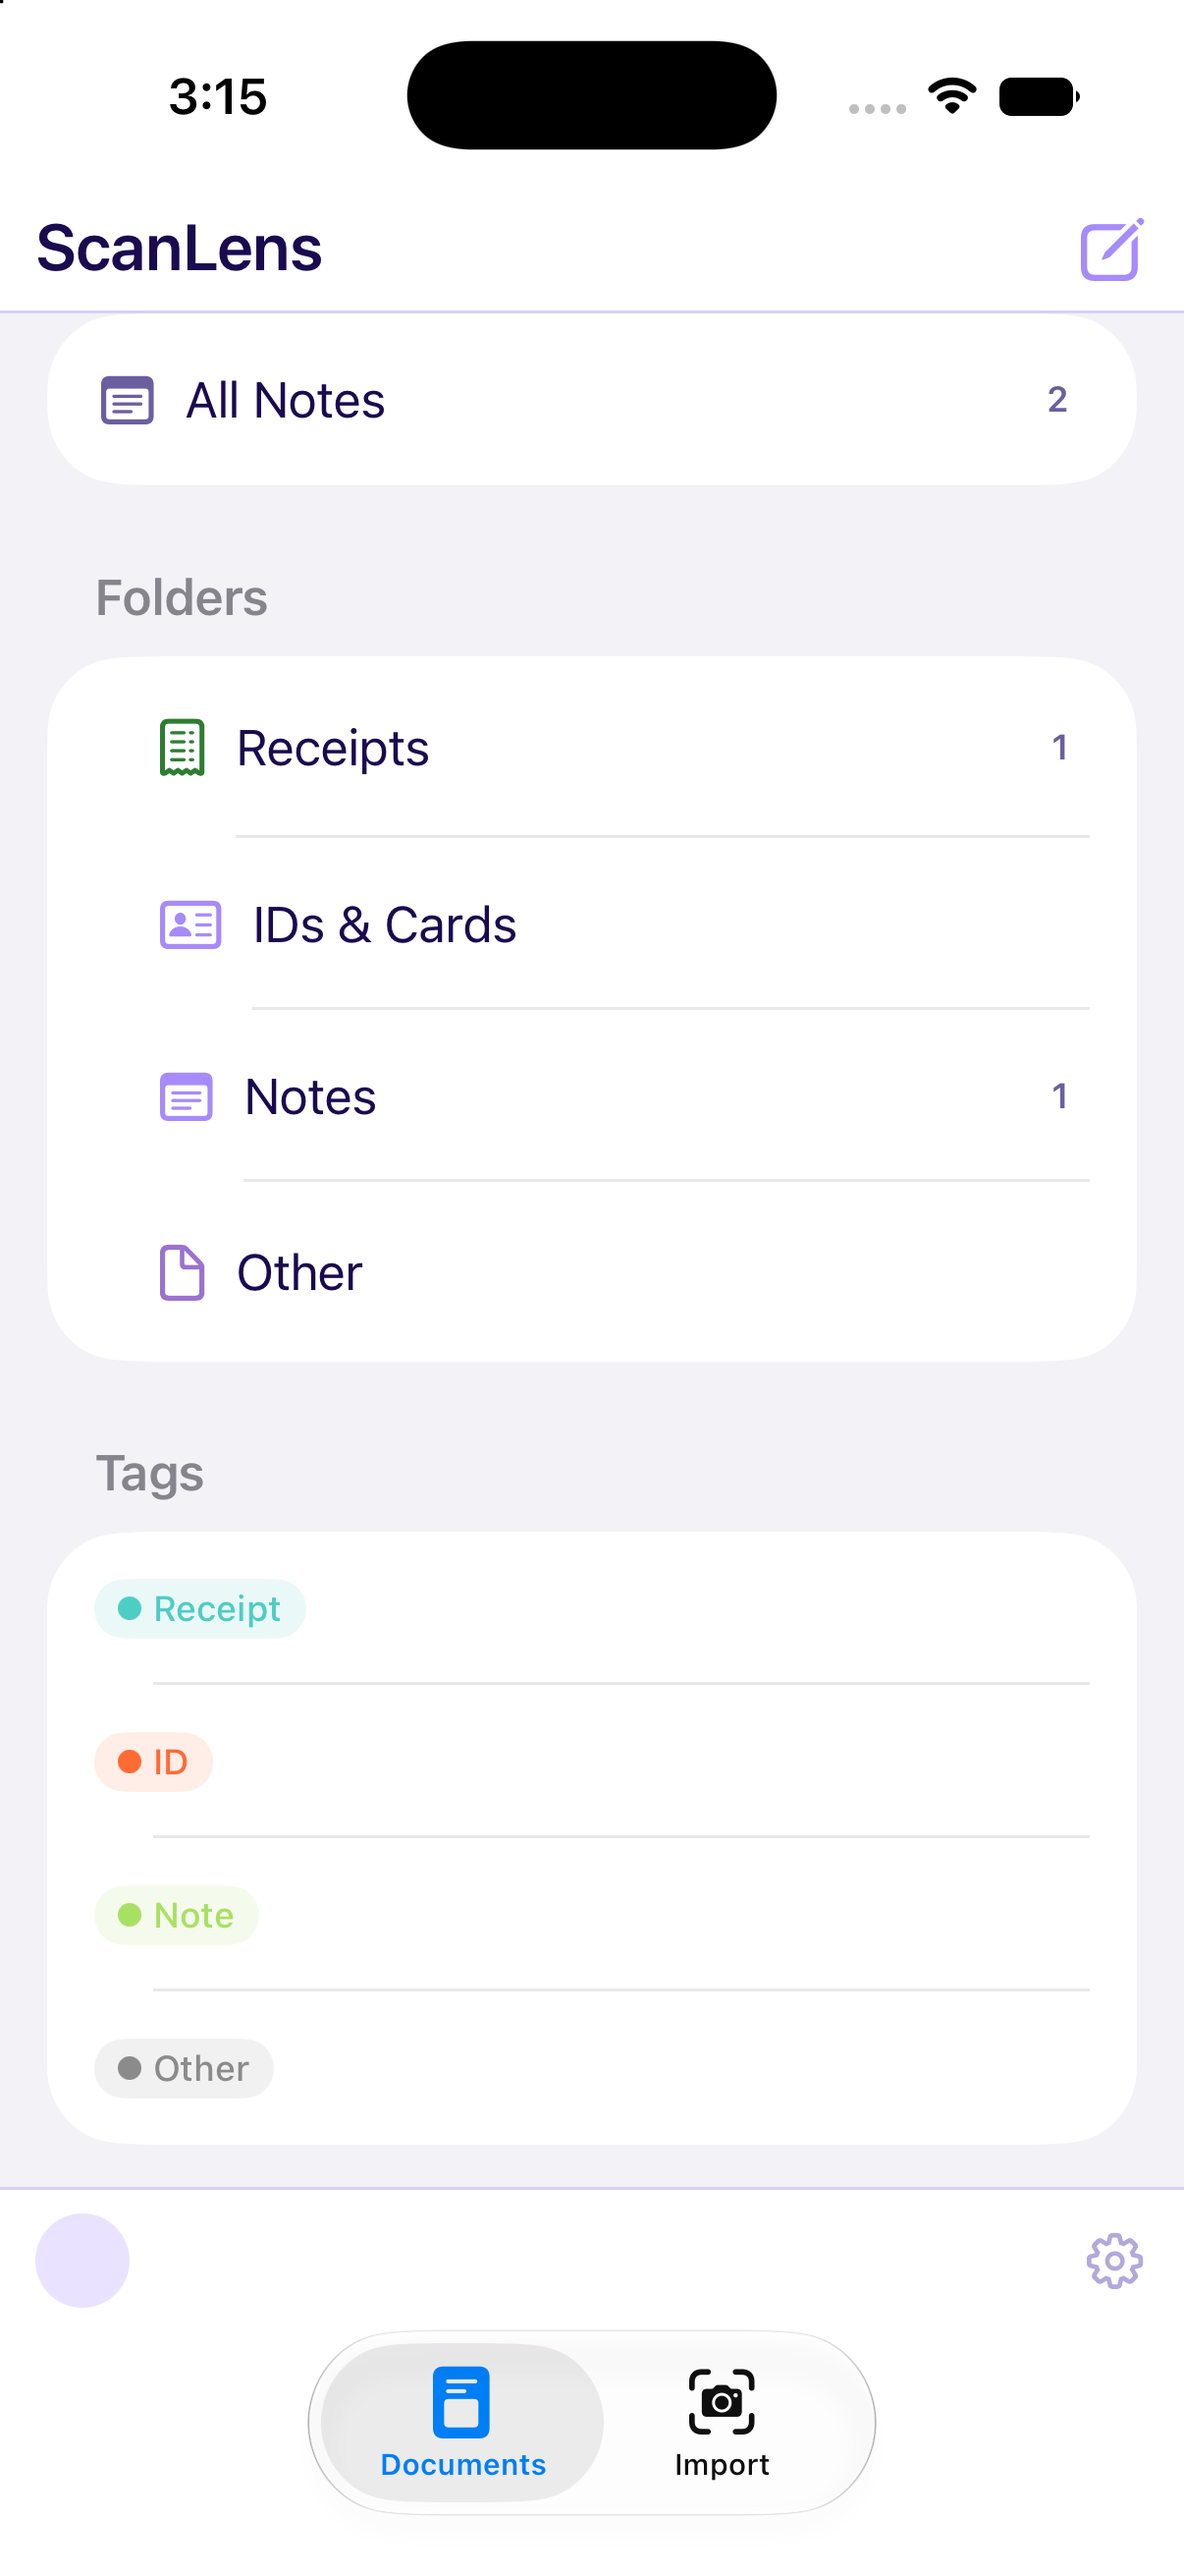
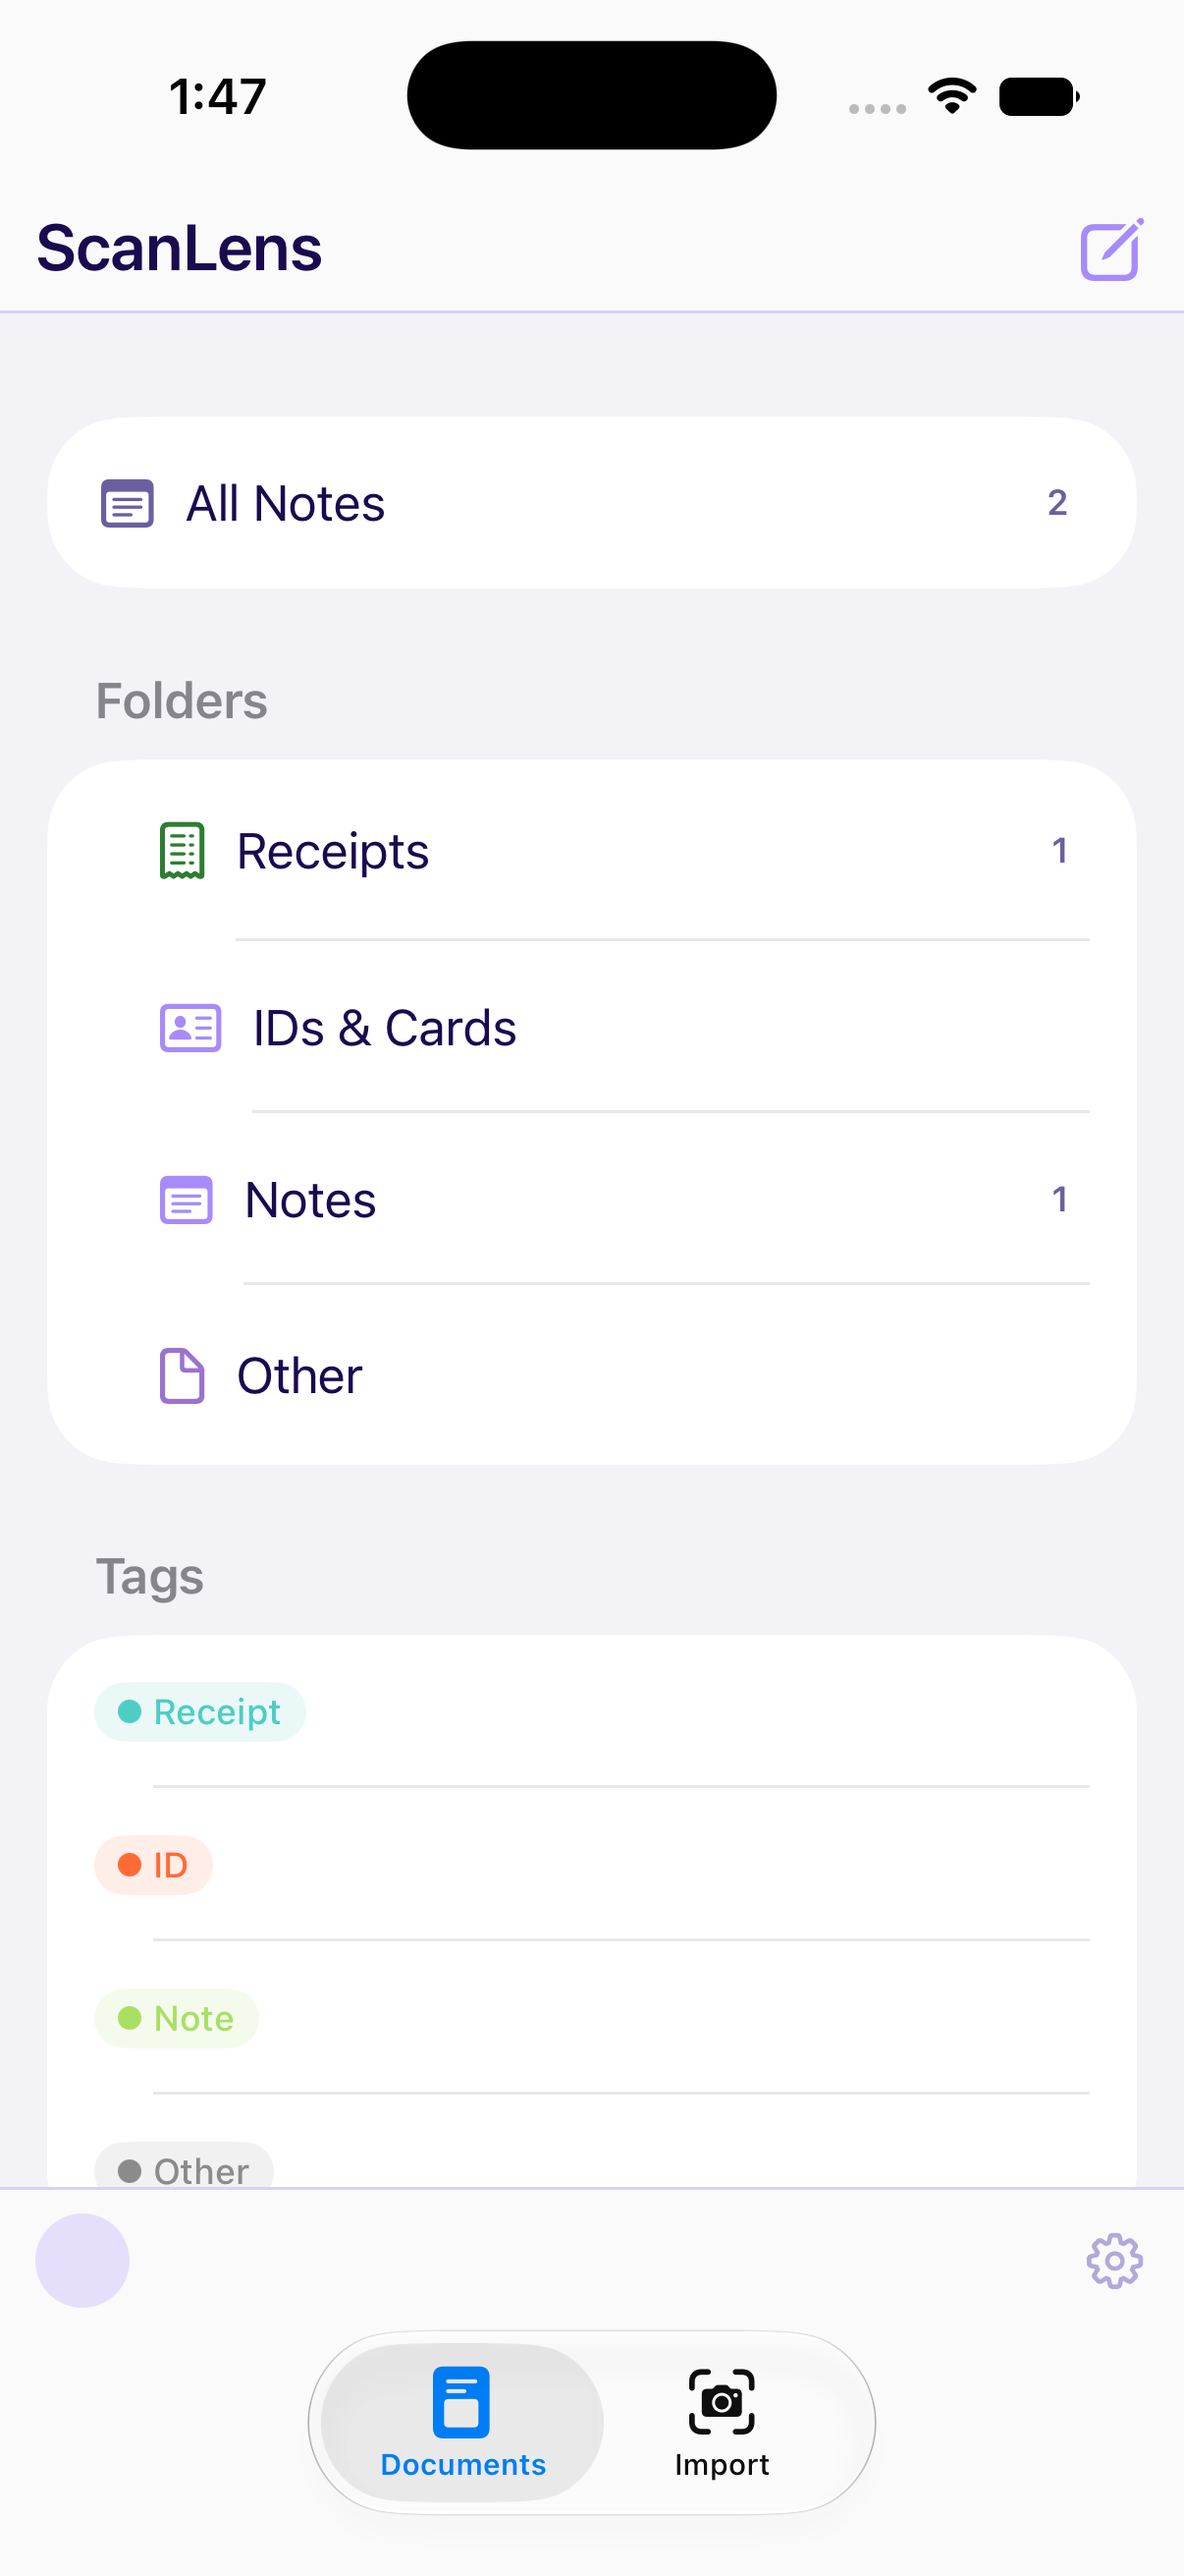
Add macOS support, bump DesignFoundationPro to 2.1.4, add screenshots
- Bump DesignFoundationPro to 2.1.4 to pick up the DFDocumentBrowserScreen /
  DFDocumentEditorScreen nested-NavigationStack crash fix.
- Add a ScanLensMac application target (+ ScanLensMacTests) mirroring
  BudgetLens's project.yml pattern, reusing the same ScanLens/ sources.
- Fix two UIKit-only call sites (UIImage(data:) in ImportView, ImageRenderer.uiImage
  in SampleDocumentImageFactory, and an iOS-only #available check gating on-device
  AI extraction) that blocked the macOS build; now uses ImageIO's CGImageSource and
  ImageRenderer's cross-platform cgImage instead.
- Capture real iPhone and Mac screenshots (Documents browser, Import flow, note
  editor) and rewrite README.md to document universal iOS/macOS support.

Claude-Session: https://claude.ai/code/session_01HF9ngMjjjwwAzYRNzhHroa

diff --git a/ScanLens/Import/ImportView.swift b/ScanLens/Import/ImportView.swift
@@ -1,6 +1,7 @@
 import SwiftUI
 import SwiftData
 import PhotosUI
+import ImageIO
 import DesignFoundation
 
 struct ImportView: View {
@@ -97,8 +98,8 @@ struct ImportView: View {
         do {
             guard
                 let data = try await item.loadTransferable(type: Data.self),
-                let uiImage = UIImage(data: data),
-                let cgImage = uiImage.cgImage
+                let imageSource = CGImageSourceCreateWithData(data as CFData, nil),
+                let cgImage = CGImageSourceCreateImageAtIndex(imageSource, 0, nil)
             else {
                 errorMessage = "Couldn't read that photo."
                 return
@@ -124,7 +125,7 @@ struct ImportView: View {
             var category = DocumentCategory.other
             var summary = ""
 
-            if #available(iOS 26.0, *) {
+            if #available(iOS 26.0, macOS 26.0, *) {
                 stage = .extracting
                 let engine = DocumentExtractionEngine()
                 if engine.isAvailable {

diff --git a/ScanLens/Import/SampleDocumentImageFactory.swift b/ScanLens/Import/SampleDocumentImageFactory.swift
@@ -1,5 +1,4 @@
 import SwiftUI
-import UIKit
 
 /// Renders a few plain sample "documents" on the fly (grocery receipt, parking receipt, meeting
 /// note) so the OCR → AI extraction pipeline is fully demoable without needing to seed the
@@ -78,6 +77,6 @@ enum SampleDocumentImageFactory {
 
         let renderer = ImageRenderer(content: content)
         renderer.scale = 2
-        return renderer.uiImage?.cgImage
+        return renderer.cgImage
     }
 }

diff --git a/README.md b/README.md
@@ -1,15 +1,17 @@
 # ScanLens
 
-[![Platform](https://img.shields.io/badge/platform-iOS%2018%2B-blue)](https://github.com/NerdSnipe-Inc/ScanLens)
+[![Platform](https://img.shields.io/badge/platform-iOS%2018%2B%20%7C%20macOS%2015%2B-blue)](https://github.com/NerdSnipe-Inc/ScanLens)
 [![Swift](https://img.shields.io/badge/Swift-6.0-orange)](https://github.com/NerdSnipe-Inc/ScanLens)
 [![License: MIT](https://img.shields.io/badge/license-MIT-green)](LICENSE)
 [![Built with DesignFoundation](https://img.shields.io/badge/built%20with-DesignFoundation-8A2BE2)](https://github.com/NerdSnipe-Inc/design-foundation)
 
 **ScanLens** is an open-source [SwiftUI document scanner and receipt scanner app](https://github.com/NerdSnipe-Inc/ScanLens)
-for iOS — a full-source, production-quality example that turns a photo of a receipt, ID, or note
-into a searchable, categorized entry entirely on-device. It's part of the same "Lens" family of
-full-source example apps as [BudgetLens](https://github.com/NerdSnipe-Inc/BudgetLens) and
-[AICompleteChat](https://github.com/NerdSnipe-Inc/AICompleteChat), all built on
+for **iOS and macOS** — a full-source, production-quality example, [universal across iPhone,
+iPad, and Mac](https://github.com/NerdSnipe-Inc/ScanLens), that turns a photo of a receipt, ID,
+or note into a searchable, categorized entry entirely on-device. It's part of the same "Lens"
+family of full-source example apps as [BudgetLens](https://github.com/NerdSnipe-Inc/BudgetLens),
+[ClientLens](https://github.com/NerdSnipe-Inc/ClientLens), [BookLens](https://github.com/NerdSnipe-Inc/BookLens),
+and [AICompleteChat](https://github.com/NerdSnipe-Inc/AICompleteChat), all built on
 [DesignFoundation](https://github.com/NerdSnipe-Inc/design-foundation) /
 [DesignFoundation Pro](https://github.com/NerdSnipe-Inc/DesignFoundationPro).
 
@@ -21,8 +23,8 @@ No server round-trip, no API key, no cloud OCR or LLM cost.
 
 Looking for a real-world **[SwiftUI OCR app example](https://github.com/NerdSnipe-Inc/ScanLens)**,
 a working **[Vision framework text recognition example](https://github.com/NerdSnipe-Inc/ScanLens)**,
-or a buildable reference for **[on-device Apple Intelligence document classification](https://github.com/NerdSnipe-Inc/ScanLens)**?
-This is a full app, not a snippet.
+or a buildable reference for **[on-device Apple Intelligence document classification](https://github.com/NerdSnipe-Inc/ScanLens)**
+on both iOS and macOS? This is a full app, not a snippet.
 
 ## Built With
 
@@ -39,9 +41,21 @@ This is a full app, not a snippet.
 
 ## Screenshots
 
+### iPhone
+
 | Documents (folders & tags) | Import |
 |---|---|
 | ![Documents browser with folders and tags](images/documents-folders.png) | ![Import screen with PhotosPicker and sample documents](images/import.png) |
+
+### Mac
+
+The same SwiftUI codebase, unmodified, running natively on macOS — DesignFoundation's
+cross-platform theming handles the desktop three-column layout automatically, no `#if os(macOS)`
+needed in app code.
+
+| Documents (sidebar + note list) | Note editor |
+|---|---|
+| ![macOS Documents browser](images/mac-documents.png) | ![macOS note editor](images/mac-editor.png) |
 
 ## What it does
 
@@ -50,21 +64,21 @@ This is a full app, not a snippet.
   scans instead of fixture data.
 - **On-device OCR** via Vision's `VNRecognizeTextRequest` — reads text out of any imported photo.
 - **On-device AI classification** via `LanguageModelSession` + `@Generable` (Apple Intelligence,
-  iOS 26+) — titles the document, sorts it into Receipts / IDs & Cards / Notes / Other, and
-  writes a one-line summary. If the on-device model is unavailable *or* fails for any reason, the
-  document still saves with the raw OCR text and a heuristic title/category — AI classification
+  iOS 26+ / macOS 26+) — titles the document, sorts it into Receipts / IDs & Cards / Notes / Other,
+  and writes a one-line summary. If the on-device model is unavailable *or* fails for any reason,
+  the document still saves with the raw OCR text and a heuristic title/category — AI classification
   is an enhancement, never a requirement to save a scan.
 - **Three bundled sample documents** (a grocery receipt, a parking receipt, a meeting note),
-  rendered on the fly — so the full pipeline is demoable in Simulator without needing a camera
-  or a seeded Photos library.
+  rendered on the fly — so the full pipeline is demoable in Simulator or on Mac without needing a
+  camera or a seeded Photos library.
 - **SwiftData persistence** for every scanned document, with pin/delete/edit support round-tripped
   through the Documents vertical's real callbacks.
 
 ## Requirements
 
-- iOS 18+ (AI classification in the Import flow additionally requires iOS 26+ with Apple
-  Intelligence enabled to actually run on-device; OCR, import, and the Documents browser work
-  fully on iOS 18)
+- iOS 18+ or macOS 15+ (AI classification in the Import flow additionally requires iOS 26+ /
+  macOS 26+ with Apple Intelligence enabled to actually run on-device; OCR, import, and the
+  Documents browser work fully on the iOS 18 / macOS 15 baseline)
 - Xcode 26+
 - [xcodegen](https://github.com/yonaskolb/XcodeGen) (`brew install xcodegen`) — this repo has no
   committed `.xcodeproj`; regenerate it from `project.yml`
@@ -96,8 +110,9 @@ xcodegen generate
 open ScanLens.xcodeproj
 ```
 
-Build and run the `ScanLens` scheme on a simulator or device. The app seeds two already-scanned
-documents on first launch so Documents isn't empty before you've run Import yourself.
+Build and run the `ScanLens` scheme (iOS, on a simulator or device) or the `ScanLensMac` scheme
+(native macOS app). The app seeds two already-scanned documents on first launch so Documents
+isn't empty before you've run Import yourself, on either platform.
 
 ## Architecture
 
@@ -115,8 +130,9 @@ ScanLens/
                                   modelContext for real save/pin/delete
   Import/
     TextRecognizer.swift          — on-device Vision OCR
-    DocumentExtractionEngine.swift — LanguageModelSession + @Generable DocumentExtraction, iOS 26+
-    SampleDocumentImageFactory.swift — renders the bundled sample documents
+    DocumentExtractionEngine.swift — LanguageModelSession + @Generable DocumentExtraction, iOS/macOS 26+
+    SampleDocumentImageFactory.swift — renders the bundled sample documents (via ImageRenderer's
+                                        cross-platform `cgImage`, no UIKit/AppKit dependency)
     ImportView.swift              — PhotosPicker + sample buttons + pipeline + status UI
 ```
 
@@ -130,6 +146,14 @@ browser, `DFDocumentEditorScreen` for editing) but wires their callbacks to a re
 `modelContext` — the same pattern the vertical's own compact-width shell uses, just backed by
 real persistence instead of fixtures. See `DocumentsBrowserView.swift` for the full mapping.
 
+`project.yml` defines two application targets — `ScanLens` (iOS) and `ScanLensMac` (macOS) —
+that both build from the same `ScanLens/` source folder. The only platform-specific code needed
+was using `ImageIO`'s cross-platform `CGImageSource` instead of `UIImage` to decode a picked
+photo, and `ImageRenderer`'s cross-platform `cgImage` property instead of `uiImage` to render the
+bundled sample documents; DesignFoundation's theming and the Documents vertical's own
+`NavigationSplitView`/compact-push layout switch handle the rest of the cross-platform adaptation
+automatically.
+
 ## Related Projects
 
 - [DesignFoundation](https://github.com/NerdSnipe-Inc/design-foundation) — the free SwiftUI
@@ -137,7 +161,11 @@ real persistence instead of fixtures. See `DocumentsBrowserView.swift` for the f
 - [DesignFoundation Pro](https://github.com/NerdSnipe-Inc/DesignFoundationPro) — the premium
   vertical UI kits (Documents, Analytics, AI Chat, CRM, and more) ScanLens's Documents tab uses.
 - [BudgetLens](https://github.com/NerdSnipe-Inc/BudgetLens) — the sibling full-source example
-  app: an on-device AI personal budget tracker built the same way.
+  app: an on-device AI personal budget tracker, universal across iOS and macOS, built the same way.
+- [ClientLens](https://github.com/NerdSnipe-Inc/ClientLens) — the sibling full-source example
+  app: an on-device AI CRM/client tracker built the same way.
+- [BookLens](https://github.com/NerdSnipe-Inc/BookLens) — the sibling full-source example app: an
+  on-device AI reading tracker built the same way.
 - [AICompleteChat](https://github.com/NerdSnipe-Inc/AICompleteChat) — the sibling full-source
   example app: an on-device AI chat client built the same way.
 
@@ -148,7 +176,7 @@ is licensed separately (see its own repo).
 
 ---
 
-**Keywords:** SwiftUI document scanner app, iOS OCR app example, receipt scanner SwiftData,
-Vision framework text recognition example, on-device Apple Intelligence example, Foundation
-Models Swift example, LanguageModelSession @Generable, SwiftUI design system, open source iOS
-app example.
+**Keywords:** SwiftUI document scanner app, iOS and macOS OCR app example, receipt scanner
+SwiftData, Vision framework text recognition example, on-device Apple Intelligence example,
+Foundation Models Swift example, LanguageModelSession @Generable, universal SwiftUI app iOS and
+macOS, SwiftUI design system, open source iOS and macOS app example.
